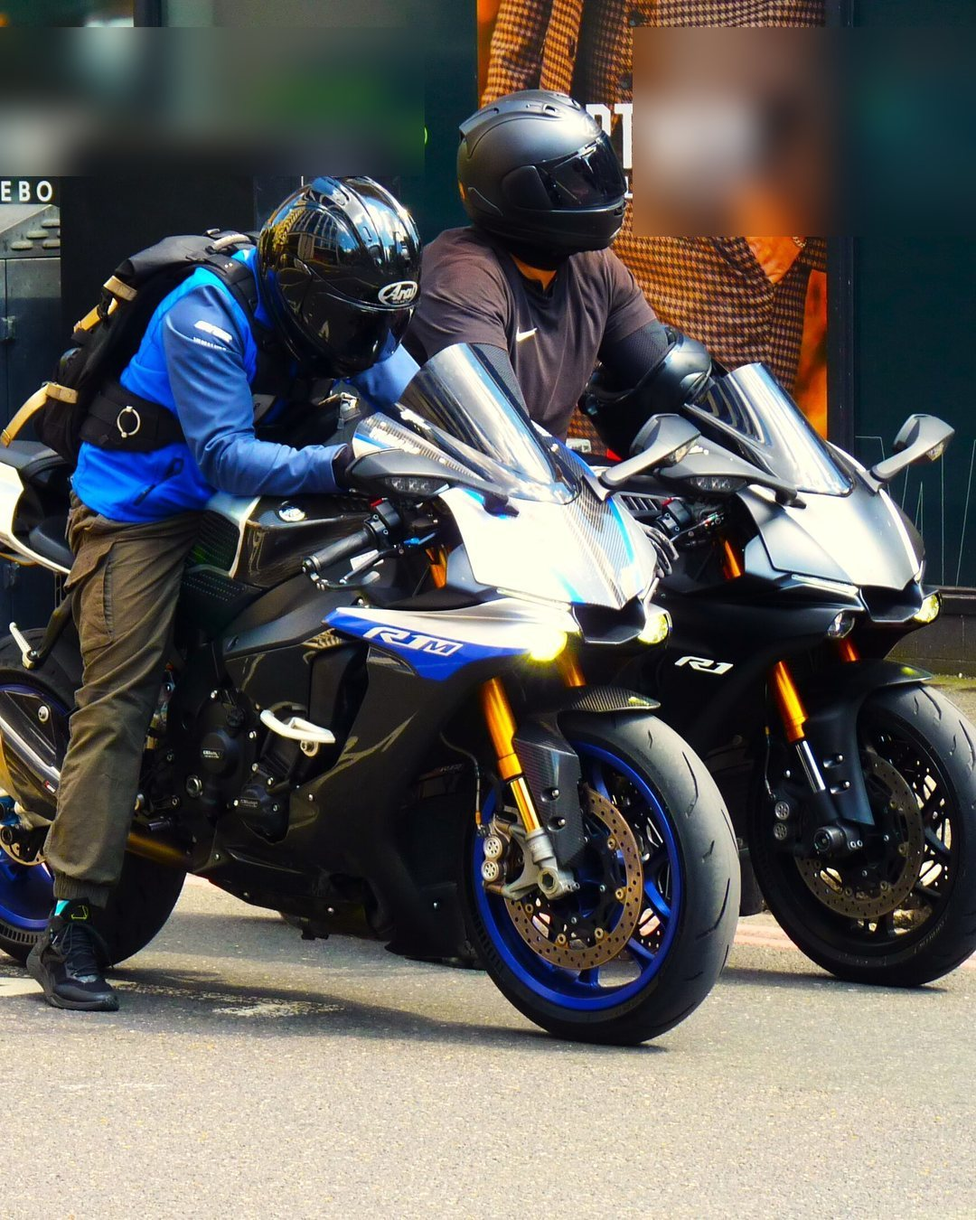
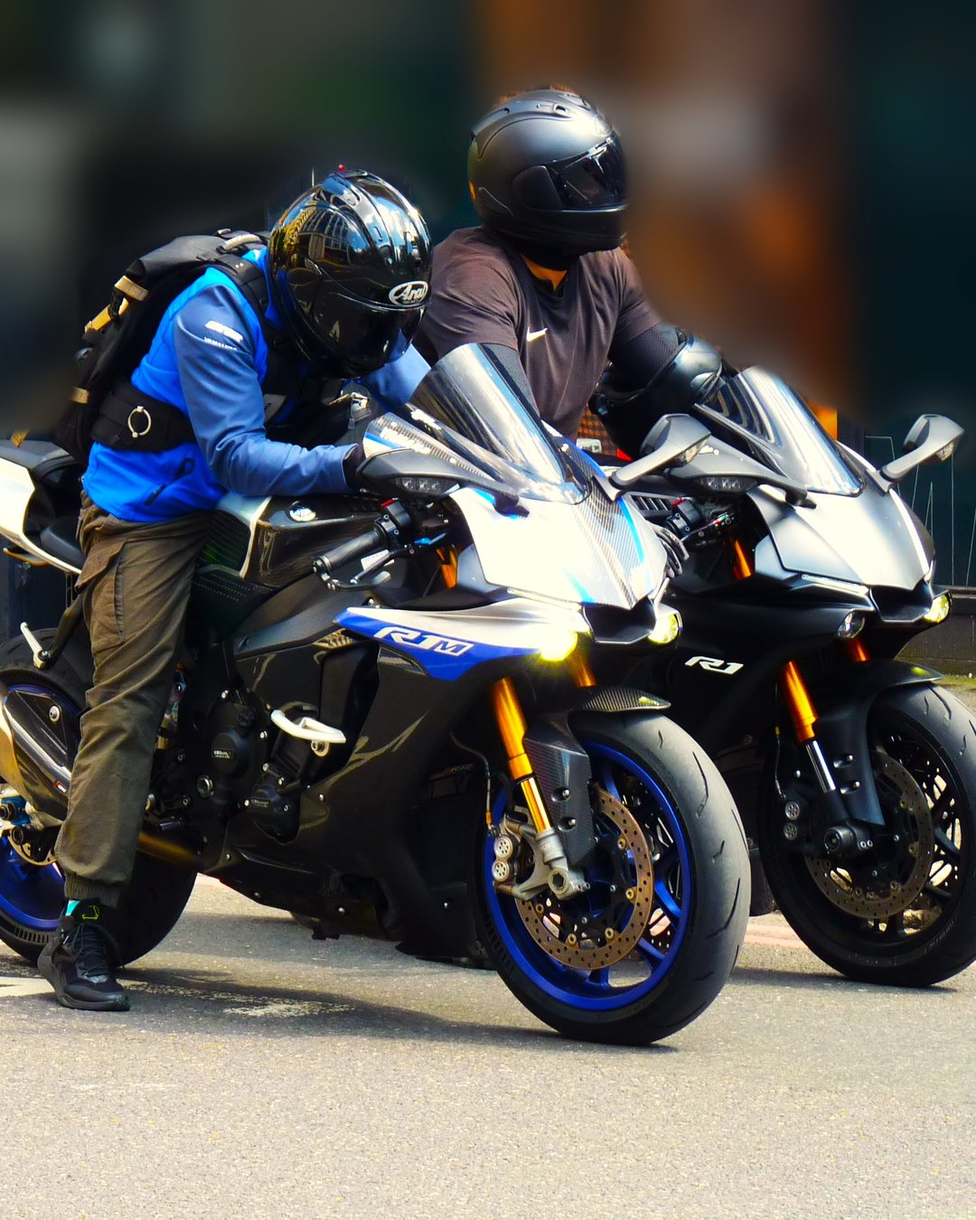
Review 21 path to 10: sign-in, Starts hours, Layers, People, Add a mod, posts and Busy night photos
- Sign-in: no tick box; one line above the two buttons says tapping either means you're 18+ and agree
  to the Terms, so the first tap never errors (gap 1, problem 14).
- Starts/Ends sheet: every hour full strength; the evening only gets a subtle shaded face (gap 17).
- Layers: "Meets", not "Events" (gap 19); "event" ratchet drops EventFilters and CommunityPeople.
- People near you: "About 8 mi from home" via format.ts roughDistanceText (gap 20); the row leads with
  the build its avatar shows (gap 25).
- Add a mod: Done steps away once "Add {part}" shows, so there's one way out at a time.
- Posts: @mo.rs3 gives no second power number (K5, gap 21), the forum title too; @dan_r's caption
  matches the office car park photo (gap 22); the R1 post's blur boxes replaced by a softened
  background (gap 23).
- Busy night: night or dusk photos for Midnight cruise, Rolling meet: north, Saturday night meet,
  Big Saturday meet and Midweek meet (gap 24, part).
- REDESIGN-2 owner decision 16 records these.

Claude-Session: https://claude.ai/code/session_01SxbZy52wgisMgiXvY74m9p

diff --git a/src/data/busyNight.ts b/src/data/busyNight.ts
@@ -245,20 +245,20 @@ const EVENT_SPECS: EventSpec[] = [
   { type: 'meet', title: 'VAG meet', description: 'VW, Audi, SEAT and Skoda. Quiet arrivals please.', when: { day: 0, hour: 22 }, hours: 2.5, miles: 5, filter: { cars: true, bikes: false, brands: VAG }, going: 22 },
   { type: 'rolling', title: 'Late rolling meet: east side', description: 'Three meet points. The host moves it on.', when: { day: 0, hour: 22, minute: 30 }, hours: 2.5, miles: 6, filter: { everyone: true }, going: 25, reveal: 30 , photo: 'bn-3' },
   { type: 'meet', title: 'Night photo meet', description: 'Bring a tripod. Modified only.', when: { day: 0, hour: 23 }, hours: 2, miles: 35, filter: { minMods: 1 }, going: 11 , photo: 'bn-4' },
-  { type: 'cruise', title: 'Midnight cruise', description: 'Start to finish with a regroup halfway. Speed limits all the way.', when: { day: 0, hour: 23, minute: 30 }, hours: 2, miles: 0, filter: { classes: ['S', 'A', 'B'] }, going: 12  },
-  { type: 'rolling', title: 'Rolling meet: north', description: 'Planned in advance, location shows half an hour before.', when: { day: 0, hour: 22, minute: 15 }, hours: 2.5, miles: 40, filter: { everyone: true }, going: 20, reveal: 30 },
+  { type: 'cruise', title: 'Midnight cruise', description: 'Start to finish with a regroup halfway. Speed limits all the way.', when: { day: 0, hour: 23, minute: 30 }, hours: 2, miles: 0, filter: { classes: ['S', 'A', 'B'] }, going: 12, photo: 'bn-10' },
+  { type: 'rolling', title: 'Rolling meet: north', description: 'Planned in advance, location shows half an hour before.', when: { day: 0, hour: 22, minute: 15 }, hours: 2.5, miles: 40, filter: { everyone: true }, going: 20, reveal: 30, photo: 'bn-9' },
   { type: 'meet', title: 'Saturday morning coffee', description: 'Coffee and cars. Daytime, family friendly.', when: { day: 1, hour: 9, minute: 30 }, hours: 3, miles: 8, filter: { everyone: true }, going: 30 },
   { type: 'cruise', title: 'Saturday afternoon cruise', description: 'A proper drive with a stop for food at the end.', when: { day: 1, hour: 14 }, hours: 3, miles: 0, filter: { minMods: 1 }, going: 16 },
   { type: 'meet', title: 'Ford owners night', description: 'Fiestas, Focuses and anything with a blue oval.', when: { day: 1, hour: 19 }, hours: 3, miles: 15, filter: { cars: true, bikes: false, brands: ['Ford'] }, going: 17 },
   { type: 'meet', title: 'Bikes and brews', description: 'Bikes only. Café open till ten.', when: { day: 1, hour: 18 }, hours: 3, miles: 28, filter: { cars: false, bikes: true }, going: 15 },
-  { type: 'meet', title: 'Saturday night meet', description: 'Everyone welcome. Arranged with the site, marshals on.', when: { day: 1, hour: 20 }, hours: 3, miles: 10, filter: { everyone: true }, going: 52  },
-  { type: 'meet', title: 'Big Saturday meet', description: 'The regional one. Worth the drive.', when: { day: 1, hour: 19, minute: 30 }, hours: 4, miles: 45, filter: { everyone: true }, going: 64 },
+  { type: 'meet', title: 'Saturday night meet', description: 'Everyone welcome. Arranged with the site, marshals on.', when: { day: 1, hour: 20 }, hours: 3, miles: 10, filter: { everyone: true }, going: 52, photo: 'bn-11' },
+  { type: 'meet', title: 'Big Saturday meet', description: 'The regional one. Worth the drive.', when: { day: 1, hour: 19, minute: 30 }, hours: 4, miles: 45, filter: { everyone: true }, going: 64, photo: 'bn-12' },
   { type: 'rolling', title: 'Rolling meet: west', description: 'Modified only, two mods or more.', when: { day: 1, hour: 21, minute: 30 }, hours: 2.5, miles: 9, filter: { minMods: 2 }, going: 19, reveal: 30 , photo: 'bn-7' },
   { type: 'cruise', title: 'Sunday breakfast ride', description: 'Bikes only. Breakfast at the finish.', when: { day: 2, hour: 8 }, hours: 3, miles: 0, filter: { cars: false, bikes: true }, going: 21 },
   { type: 'meet', title: 'BMW Sunday', description: 'BMWs of every age.', when: { day: 2, hour: 10 }, hours: 3, miles: 18, filter: { cars: true, bikes: false, brands: ['BMW'] }, going: 13 },
   { type: 'meet', title: 'Retro and classic Sunday', description: 'Anything older than 2005 at the front.', when: { day: 2, hour: 11 }, hours: 4, miles: 30, filter: { everyone: true }, going: 27 },
   { type: 'cruise', title: 'Sunday evening cruise', description: 'Classes A to C. Steady pace.', when: { day: 2, hour: 18 }, hours: 2, miles: 0, filter: { classes: ['A', 'B', 'C'] }, going: 18 },
-  { type: 'meet', title: 'Midweek meet', description: 'Same place every Wednesday.', when: { day: 5, hour: 19, minute: 30 }, hours: 3, miles: 20, filter: { everyone: true }, going: 33 },
+  { type: 'meet', title: 'Midweek meet', description: 'Same place every Wednesday.', when: { day: 5, hour: 19, minute: 30 }, hours: 3, miles: 20, filter: { everyone: true }, going: 33, photo: 'bn-13' },
   { type: 'meet', title: 'Track prep and tea', description: 'Three mods or more. Talk tyres, pads and track days.', when: { day: 6, hour: 19 }, hours: 3, miles: 40, filter: { minMods: 3 }, going: 9 , photo: 'bn-8' },
 ];
 

diff --git a/src/data/communitySeed.ts b/src/data/communitySeed.ts
@@ -56,7 +56,7 @@ export function communitySample(now: Date, home: LatLng, region: string): Commun
   const threads: ForumThread[] = [
     t('ft-clutch', 'advice', 'kez', 'Clutch slipping in 3rd after a Stage 2 map',
       'Had the map done last week and now it slips in 3rd on full boost. Stock clutch, 62k miles. Is it worth an uprated one or just a new standard clutch?', 2 * DAY, { buildId: 'b-kez-0' }),
-    t('ft-rs3', 'builds', 'mo', 'RS3 8V build: from stock to 470 on the rollers',
+    t('ft-rs3', 'builds', 'mo', 'RS3 8V build: from stock to Stage 2+',
       'Starting a thread for the RS3. Intake, downpipe with a sports cat, intercooler and a custom map so far. Next up: brakes before any more power.', 9 * DAY, { buildId: 'b-mo-0' }),
     t('ft-winter-r1', 'bikes', 'aimee', 'Winter storage for an R1?',
       'First winter with the R1. Garage is dry but cold. Battery tender and fuel stabiliser, anything else?', 4 * DAY),
@@ -105,10 +105,10 @@ export function communitySample(now: Date, home: LatLng, region: string): Commun
     id, authorId, body, photos: samplePhotoRefs(SAMPLE_PHOTOS[id] ? id : extra.buildId ?? id), visibility: 'public', createdAt: ago(created), likeCount: 0, commentCount: 0, likedByMe: false, sample: true, ...extra,
   });
   const posts: Post[] = [
-    p('po-1', 'dan', 'Fresh from a wash, parked up at the old airfield car park. Quiet, plenty of space, nobody about.', 3 * HOUR,
-      { at: near(0.05, -0.08), placeName: 'Old airfield car park', buildId: 'b-dan-0', likeCount: 12, commentCount: 2 }),
+    p('po-1', 'dan', 'Fresh from a wash, parked up outside work. The trees are turning, so the leaves are back on the paint.', 3 * HOUR,
+      { at: near(0.05, -0.08), placeName: 'Office car park', buildId: 'b-dan-0', likeCount: 12, commentCount: 2 }),
     p('po-2', 'aimee', 'First ride out since the new end can went on. Sounds mint and it’s still road legal.', 7 * HOUR, { buildId: 'b-aimee-0', likeCount: 8 }),
-    p('po-3', 'mo', 'Back from the rolling road: 470 at the hubs after the map. Brakes next.', 26 * HOUR,
+    p('po-3', 'mo', 'Back from the rolling road, and the map’s done. Pulls hard all the way now. Brakes next.', 26 * HOUR,
       { at: near(-0.04, 0.07), placeName: 'Rolling road', buildId: 'b-mo-0', likeCount: 21, commentCount: 1 }),
     p('po-4', 'liv', 'Out early this morning, roads were empty and dry for once.', 30 * HOUR, { at: near(0.11, 0.09), placeName: 'Reservoir viewpoint', buildId: 'b-liv-0', likeCount: 5 }),
     p('po-5', 'mo', 'Connections only: wash day Saturday, 10am. Bring your own snow foam.', 2 * DAY, { visibility: 'connections', likeCount: 3 }),
@@ -120,7 +120,7 @@ export function communitySample(now: Date, home: LatLng, region: string): Commun
   const c = (id: string, postId: string, authorId: string, body: string, created: number): PostComment => ({ id, postId, authorId, body, createdAt: ago(created), sample: true });
   const comments: PostComment[] = [
     c('pc-1', 'po-1', 'mo', 'Proper shot that.', 2 * HOUR),
-    c('pc-2', 'po-1', 'aimee', 'Need to get the R1 down there.', 90 * MIN),
+    c('pc-2', 'po-1', 'aimee', 'Wish my work car park looked like that.', 90 * MIN),
     c('pc-3', 'po-3', 'cal', 'Do the brakes first, honestly.', 20 * HOUR),
     c('pc-4', 'po-6', 'jord', 'Tyres. Then drive it a lot.', 2 * DAY),
   ];

diff --git a/src/app/signin.tsx b/src/app/signin.tsx
@@ -51,6 +51,18 @@ function AgreeRow({ on, onChange }: { on: boolean; onChange: (v: boolean) => voi
   );
 }
 
+/** First run: the agreement said once, above the two ways in; either tap agrees (Review 21 gap 1). */
+function AgreeLine() {
+  return (
+    <View style={{ flexDirection: 'row', alignItems: 'center', gap: SPACING.xs }}>
+      <DsText v="secondary" style={{ flex: 1 }}>
+        By going on, you confirm you're 18 or over and agree to the Terms.
+      </DsText>
+      <Button label="Read" tier="tertiary" size="sm" onPress={() => openLegal('terms')} accessibilityLabel="Read the Terms of Use" accessibilityHint="Opens in Safari" />
+    </View>
+  );
+}
+
 /**
  * First run (Redesign 2, 3.1): what Nightshift is in one line, a photo, the loop in three lines,
  * then Try the demo (primary) and Sign in (secondary) in the ActionBar, both on screen at 375x667.
@@ -67,12 +79,13 @@ export default function SignIn() {
   const [step, setStep] = useState<'start' | 'email'>('start');
   const [busy, setBusy] = useState<null | 'demo'>(null);
   const [error, setError] = useState<{ at: 'demo'; text: string } | null>(null);
-  const [agreed, setAgreed] = useAgreed(() => setError(null));
+  const [, setAgreed] = useAgreed();
 
-  // The 18+ box is on the first screen only, and both ways in need it: the demo too.
+  // Both ways in say you're 18+ and agree to the Terms: the line right above them says so, and the
+  // tap itself is the agreement, so the first tap never errors (Review 21 gap 1).
   async function demo() {
     setError(null);
-    if (!agreed) return setError({ at: 'demo', text: TICK_FIRST });
+    setAgreed(true);
     setBusy('demo');
     try {
       await auth.startDemo();
@@ -120,20 +133,21 @@ export default function SignIn() {
             ))}
           </View>
         </ScrollView>
-        {/* The 18+ tick sits in the bar, right above the buttons it unlocks, so it's seen before
-            either is tapped (Review 19 #2). Its error shows between the two. */}
+        {/* The 18+ and Terms line sits in the bar, right above the buttons it goes with, so it's read
+            before either is tapped; tapping either is the agreement (Review 19 #2, Review 21 gap 1). */}
         <ActionBar>
-          <AgreeRow on={agreed} onChange={setAgreed} />
+          <AgreeLine />
           {err('demo')}
-          <Button tier="primary" size="md" block label="Try the demo" onPress={demo} busy={busy === 'demo'} accessibilityHint="Sample people and meets. Nothing leaves this phone." />
+          <Button tier="primary" size="md" block label="Try the demo" onPress={demo} busy={busy === 'demo'} accessibilityHint="You're 18 or over and agree to the Terms. Sample people and meets. Nothing leaves this phone." />
           <Button
             tier="secondary"
             size="md"
             block
             label="Sign in"
+            accessibilityHint="You're 18 or over and agree to the Terms."
             onPress={() => {
               setError(null);
-              if (!agreed) return setError({ at: 'demo', text: TICK_FIRST });
+              setAgreed(true);
               setStep('email');
             }}
           />

diff --git a/src/data/samplePhotos.ts b/src/data/samplePhotos.ts
@@ -412,6 +412,52 @@ export const SAMPLE_PHOTOS: Record<string, SamplePhoto> = {
     licenceUrl: "https://creativecommons.org/licenses/by-sa/2.0",
     edited: "Cropped",
   },
+  // Review 21 gap 24: night and dusk shots for the Busy night meets that still showed a daytime build.
+  'bn-9': {
+    image: require('../../assets/sample-photos/bn-9.jpg'),
+    page: "https://commons.wikimedia.org/wiki/File:French_Classic_%26_Performance_Night_at_The_Ace_Cafe_31.jpg",
+    title: "A blue Alpine A110 with its lamps on at dusk",
+    author: "cosmic_spanner",
+    licence: "CC BY-SA 2.0",
+    licenceUrl: "https://creativecommons.org/licenses/by-sa/2.0",
+    edited: "Cropped",
+  },
+  'bn-10': {
+    image: require('../../assets/sample-photos/bn-10.jpg'),
+    page: "https://commons.wikimedia.org/wiki/File:French_Night_at_Ace_Cafe_17_Sep_2007_-_16.jpg",
+    title: "A rally-prepared Peugeot 205 under sodium light at night",
+    author: "cosmic_spanner",
+    licence: "CC BY-SA 2.0",
+    licenceUrl: "https://creativecommons.org/licenses/by-sa/2.0",
+    edited: "Cropped",
+  },
+  'bn-11': {
+    image: require('../../assets/sample-photos/bn-11.jpg'),
+    page: "https://commons.wikimedia.org/wiki/File:French_Night_at_Ace_Cafe_-_17_Dec_2007.jpg",
+    title: "A red Peugeot 306 lined up with others at a night meet",
+    author: "cosmic_spanner",
+    licence: "CC BY-SA 2.0",
+    licenceUrl: "https://creativecommons.org/licenses/by-sa/2.0",
+    edited: "Plate removed, cropped",
+  },
+  'bn-12': {
+    image: require('../../assets/sample-photos/bn-12.jpg'),
+    page: "https://commons.wikimedia.org/wiki/File:French_Classic_%26_Performance_Night_at_The_Ace_Cafe_33.jpg",
+    title: "Two Clio V6s nose to nose at dusk",
+    author: "cosmic_spanner",
+    licence: "CC BY-SA 2.0",
+    licenceUrl: "https://creativecommons.org/licenses/by-sa/2.0",
+    edited: "Cropped",
+  },
+  'bn-13': {
+    image: require('../../assets/sample-photos/bn-13.jpg'),
+    page: "https://commons.wikimedia.org/wiki/File:French_Night_at_Ace_Cafe_16_July_2007_-_08.jpg",
+    title: "A row of red coupés’ rear spoilers at an evening meet",
+    author: "cosmic_spanner",
+    licence: "CC BY-SA 2.0",
+    licenceUrl: "https://creativecommons.org/licenses/by-sa/2.0",
+    edited: "Cropped",
+  },
   // Posts' own photos: the same kind of car, another shot, so a photo shows on at most two screens (Review 19).
   'po-1': {
     image: require('../../assets/sample-photos/po-1.jpg'),
@@ -430,7 +476,7 @@ export const SAMPLE_PHOTOS: Record<string, SamplePhoto> = {
     licence: "CC0",
     licenceUrl: "http://creativecommons.org/publicdomain/zero/1.0/deed.en",
     similar: "The R1M version of the same generation",
-    edited: "Shop signs blurred, cropped",
+    edited: "Background softened (shop signs), cropped",
   },
   'po-3': {
     image: require('../../assets/sample-photos/po-3.jpg'),

diff --git a/src/components/ds/DateTimeSheet.tsx b/src/components/ds/DateTimeSheet.tsx
@@ -43,7 +43,7 @@ export function dateTimeText(value: Date, now: Date, mode: DateTimeMode = 'datet
 /**
  * Every hour of the day, in clock order, in one tidy grid of 6 columns by 4 rows (Review 20 #10,
  * owner decision): morning meets (Sunday coffee) are as easy to pick as evening ones. The evening
- * (17–23), when most meets start, is lit.
+ * (17–23), when most meets start, has a subtle shaded face; every hour is full strength (Review 21).
  */
 const HOURS = Array.from({ length: 24 }, (_, h) => h);
 const EVENING_FROM = 17;
@@ -55,7 +55,7 @@ const HOUR_COLUMNS = 6;
  *
  * In a Sheet: a sideways row of days (`days`, default 14: "Today", "Tomorrow", "Sat 21", …, then
  * "Another day" for the month calendar, in the same sheet), then for `mode="datetime"` the hour
- * (all 24 in clock order, a 6 x 4 grid with the evening lit; any that can't be picked are greyed)
+ * (all 24 in clock order, a 6 x 4 grid with the evening shaded; any that can't be picked are greyed)
  * and the minutes in `stepMinutes` steps (default 15: :00 :15 :30 :45).
  * Every tap calls `onChange` with the whole new Date; the Sheet closes with Done.
  *
@@ -150,12 +150,13 @@ export function DateTimeSheet({
           alignItems: 'center',
           justifyContent: 'center',
           ...chipFace(on),
-          // The evening is lit: a raised face and a stronger edge; selection stays the one sodium state.
-          ...(!on && evening ? { backgroundColor: COLOR.surface.raised, borderColor: COLOR.surface.borderStrong } : null),
+          // Every hour is full strength and tappable (Review 21 gap 17: dim mornings looked disabled).
+          // The evening gets only a subtle raised face; selection stays the one sodium state.
+          ...(!on && evening ? { backgroundColor: COLOR.surface.raised } : null),
           opacity: off ? 0.35 : 1,
         }}
       >
-        <DsText v={on || evening ? 'bodyStrong' : 'body'} style={{ color: on ? chipText(on) : evening ? COLOR.text.primary : COLOR.text.secondary, fontVariant: ['tabular-nums'] }}>
+        <DsText v={on ? 'bodyStrong' : 'body'} style={{ color: chipText(on), fontVariant: ['tabular-nums'] }}>
           {String(h).padStart(2, '0')}
         </DsText>
       </Press>
@@ -243,7 +244,7 @@ export function DateTimeSheet({
         <View style={{ gap: SPACING.sm }}>
           <View style={{ flexDirection: 'row', alignItems: 'baseline', justifyContent: 'space-between', gap: SPACING.sm }}>
             <DsText v="label">Hour</DsText>
-            <DsText v="caption">Evening hours are lit</DsText>
+            <DsText v="caption">Evening (17–23) is shaded</DsText>
           </View>
           <View style={{ gap: SPACING.xs }}>
             {hourRows.map((row) => (

diff --git a/src/lib/carsNear.ts b/src/lib/carsNear.ts
@@ -1,4 +1,5 @@
 import { classOf, effectivePower } from './classes';
+import { roughDistanceText } from './format';
 import { milesBetween } from './geo';
 import type { Build, ClassLetter, LatLng, User, VehicleKind } from './types';
 
@@ -26,9 +27,13 @@ export function roughMiles(miles: number): number {
   return Math.round(miles / 10) * 10;
 }
 
-/** "Under 5 mi" or "About 12 mi". */
+/**
+ * "Under 5 mi from home" or "About 12 mi from home": measured between home areas, so it says so
+ * (4.9, Review 21 gap 20). The words are format.ts `roughDistanceText`, capitalised to lead a line.
+ */
 export function distanceLabel(miles: number): string {
-  return miles <= 5 ? 'Under 5 mi' : `About ${miles} mi`;
+  const t = roughDistanceText(miles, 'home');
+  return t.charAt(0).toUpperCase() + t.slice(1);
 }
 
 export function roughMilesBetween(a: LatLng, b: LatLng): number {
@@ -95,6 +100,13 @@ export function isFiltered(f: NearFilter): boolean {
   return f.kind !== 'all' || f.classes.length > 0 || f.make.trim() !== '' || (f.makes?.length ?? 0) > 0;
 }
 
+/** Someone's main build, the one their profile leads with: a photo first, then the first they added. */
+export function mainBuild(builds: readonly Build[]): Build | undefined {
+  // One with its own photo first, then the first they added (Review 20 #40: @na_ollie's MX-5, not
+  // the more powerful bike they also own), so an avatar shows the car their handle and posts are about.
+  return [...builds].sort((a, b) => Number(!!b.photos[0]) - Number(!!a.photos[0]))[0];
+}
+
 /** Cards for the People list. With a filter on, people with no matching build drop out. */
 export function personCards(near: Nearby[], users: User[], builds: Build[], f: NearFilter): PersonCard[] {
   const byId = new Map(users.map((u) => [u.id, u]));
@@ -106,7 +118,11 @@ export function personCards(near: Nearby[], users: User[], builds: Build[], f: N
       .filter((b) => b.ownerId === n.userId && buildMatches(b, f))
       .sort((a, b) => effectivePower(b) - effectivePower(a));
     if (isFiltered(f) && theirs.length === 0) continue;
-    out.push({ user, miles: n.miles, builds: theirs, lead: theirs[0] ?? null });
+    // The row leads with the build the avatar shows (their main one) when it matches, so the photo
+    // and the words agree (Review 21 gap 25); with a filter that it fails, the best match.
+    const main = mainBuild(builds.filter((b) => b.ownerId === n.userId));
+    const lead = main && theirs.includes(main) ? main : theirs[0] ?? null;
+    out.push({ user, miles: n.miles, builds: theirs, lead });
   }
   return out;
 }

diff --git a/src/components/Community.tsx b/src/components/Community.tsx
@@ -3,7 +3,7 @@ import { carShape } from '../lib/buildShape';
 import { router } from 'expo-router';
 import { useState, type ReactNode } from 'react';
 import { View, useWindowDimensions } from 'react-native';
-import { distanceLabel, type PersonCard as Card_ } from '../lib/carsNear';
+import { distanceLabel, mainBuild, type PersonCard as Card_ } from '../lib/carsNear';
 import { classOf } from '../lib/classes';
 import { connectLabel, type ConnectionState } from '../lib/connections';
 import { boardLabel, listingFacts, priceLabel, type ForumThread } from '../lib/forum';
@@ -180,12 +180,8 @@ export function PersonNearRow({ card, state }: { card: Card_; state: ConnectionS
   );
 }
 
-/** Someone's main build, the one their profile leads with: a photo first, then the most power. */
-export function mainBuild(builds: readonly Build[]): Build | undefined {
-  // One with its own photo first, then the first they added (Review 20 #40: @na_ollie's MX-5, not
-  // the more powerful bike they also own), so an avatar shows the car their handle and posts are about.
-  return [...builds].sort((a, b) => Number(!!b.photos[0]) - Number(!!a.photos[0]))[0];
-}
+/** Someone's main build, the one their profile and avatar lead with (carsNear.ts). */
+export { mainBuild };
 
 /** A person's row anywhere else (connections, a chat's members): avatar, @handle, their build. */
 export function PersonRow({ user, build, meta, onPress, trailing }: { user?: User; build?: Build; meta?: string; onPress?: () => void; trailing?: ReactNode }) {

diff --git a/src/components/EventFilters.tsx b/src/components/EventFilters.tsx
@@ -11,14 +11,14 @@ export interface EventFiltersProps {
 }
 
 /**
- * The Events part of the Layers sheet (owner, 18 Nov 2026): Events on or off, When (Tonight / This
+ * The Meets part of the Layers sheet (owner, 18 Nov 2026; "Meets", not "Events": Review 21 gap 19): Meets on or off, When (Tonight / This
  * week / All), Type chips (nothing picked = all) and Only ones I can go to. Meets you're going to or
  * hosting always show. The logic is eventFilter.ts.
  */
 export function EventFilters({ eventsOn, onToggleEvents, filter, onChange }: EventFiltersProps) {
   return (
     <View style={{ gap: SPACING.md }}>
-      <SwitchRow label="Events" hint="Meets, cruises and rolling meets. Yours always show" value={eventsOn} onValueChange={onToggleEvents} />
+      <SwitchRow label="Meets" hint="Cruises and rolling meets too. Yours always show" value={eventsOn} onValueChange={onToggleEvents} />
       {eventsOn ? (
         <>
           <View style={{ gap: SPACING.sm }}>

diff --git a/src/components/CommunityPeople.tsx b/src/components/CommunityPeople.tsx
@@ -141,7 +141,7 @@ export function CommunityPeople() {
             ))}
           </View>
         )}
-        <DsText v="caption">Distances are rough, from home areas. You can turn this off in Settings › Privacy.</DsText>
+        <DsText v="caption">Distances are rough, between home areas, never exact. You can turn this off in Settings › Privacy.</DsText>
       </View>
     );
   }
@@ -162,7 +162,7 @@ export function CommunityPeople() {
         <ListRow
           leading={{ icon: 'check' }}
           title={`Your connections (${connected.length})`}
-          subtitle={connected.length ? 'Message them, or see who you blocked' : 'Meet people at an event, then connect from their profile'}
+          subtitle={connected.length ? 'Message them, or see who you blocked' : 'Say hello at a meet, then connect from their profile'}
           onPress={() => router.push('/connections')}
         />
         <RowDivider />

diff --git a/src/lib/format.ts b/src/lib/format.ts
@@ -84,6 +84,15 @@ export function distanceText(miles: number, from: 'you' | 'home' = 'you', about 
   return `${base} from ${from}`;
 }
 
+/**
+ * A rough distance between two people's home areas (People near you): rounded for privacy, and,
+ * like every distance, it names its origin (Review 21 gap 20): "under 5 mi from home", "about 8 mi
+ * from home". `miles` is already rounded (carsNear `roughMiles`); 5 or less means "under 5".
+ */
+export function roughDistanceText(miles: number, from: 'you' | 'home' = 'home'): string {
+  return miles <= 5 ? `under 5\u00a0mi from ${from}` : `about ${Math.round(miles)}\u00a0mi from ${from}`;
+}
+
 /** Where every distance is measured from: your GPS fix while location is on, else your home. */
 export type DistanceOrigin = { at: LatLng; from: 'you' | 'home' };
 

diff --git a/__tests__/community.test.ts b/__tests__/community.test.ts
@@ -90,8 +90,8 @@ describe('Cars near you (mirrors people_near)', () => {
     expect(roughMiles(13.2)).toBe(14);
     expect(roughMiles(33)).toBe(35);
     expect(roughMiles(87)).toBe(90);
-    expect(distanceLabel(5)).toBe('Under 5 mi');
-    expect(distanceLabel(12)).toBe('About 12 mi');
+    expect(distanceLabel(5)).toBe('Under 5\u00a0mi from home');
+    expect(distanceLabel(12)).toBe('About 12\u00a0mi from home');
   });
   it('snaps homes to 0.05° first', () => {
     expect(coarse({ lat: 53.23, lng: -0.54 })).toEqual({ lat: expect.closeTo(53.25, 6), lng: expect.closeTo(-0.55, 6) });

diff --git a/src/components/AddModSheet.tsx b/src/components/AddModSheet.tsx
@@ -108,7 +108,10 @@ export function AddModSheet({
   }
 
   return (
-    <Sheet visible={visible} title="Add a mod" onClose={close}>
+    // One way out at a time (4.5, Review 21): Done until a part is picked, then the Add button is the
+    // sheet's action and Done steps away, so nobody wonders which of the two saves. Untick the part (or
+    // tap outside) to leave without adding.
+    <Sheet visible={visible} title="Add a mod" onClose={close} hideDone={!!name}>
       <SegmentedControl<ModSection>
         accessibilityLabel="Kind of part"
         value={section}
